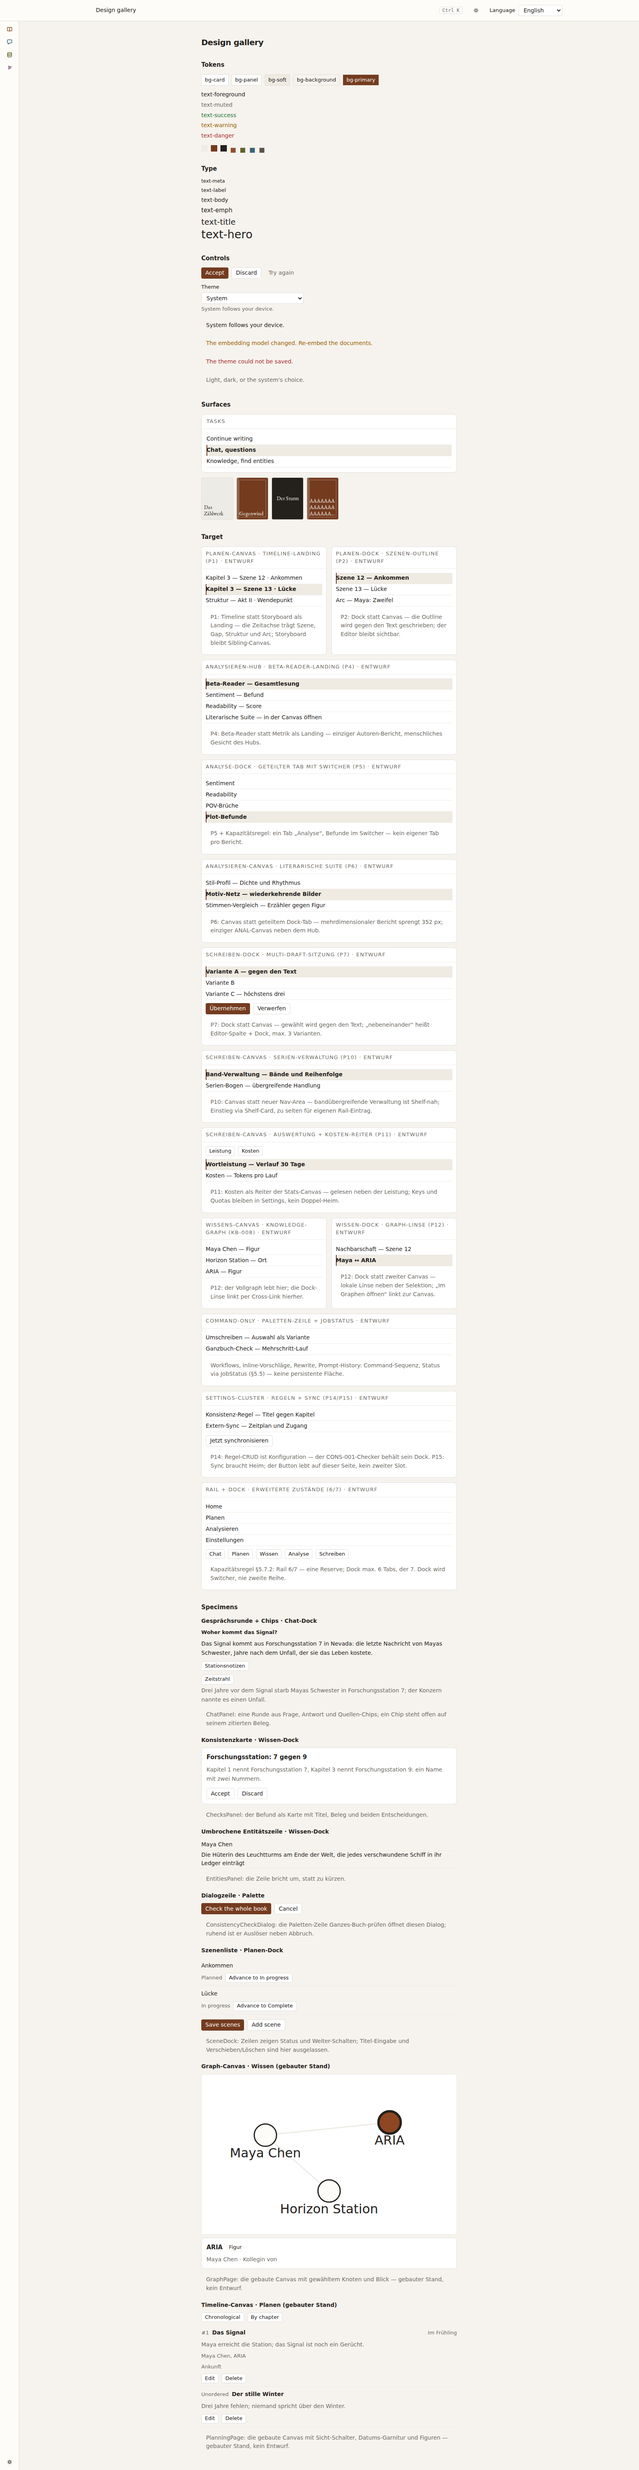
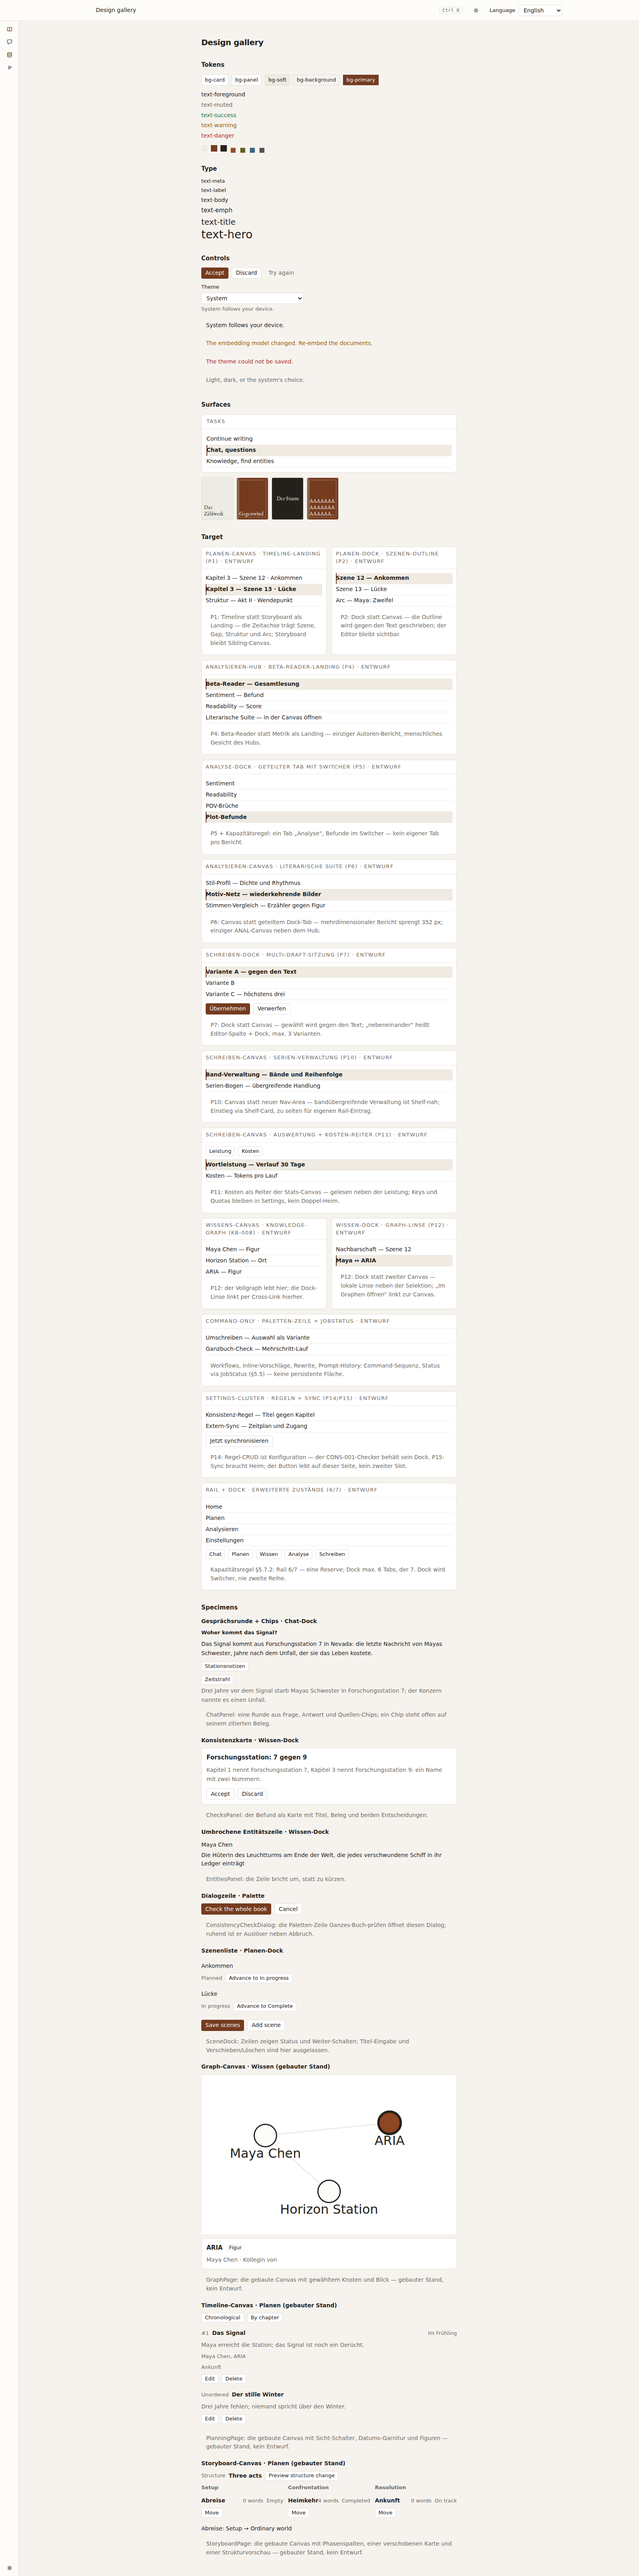
docs(screenshots): the storyboard canvas pinned in both themes
User-visible: The design gallery pins the built storyboard canvas beside its Target draft, and the screenshots show the storyboard board in light and dark themes.
Assisted-by: OpenCode (muse-spark-1.3-contributor)

diff --git a/app/capabilities/settings/web/DesignGallery.tsx b/app/capabilities/settings/web/DesignGallery.tsx
@@ -857,6 +857,139 @@ export function DesignGallery() {
             </Notice>
           </div>
         </div>
+        <div className="mt-3">
+          <h3 className="text-body font-semibold">
+            Storyboard-Canvas · Planen (gebauter Stand)
+          </h3>
+          {/* The canvas as StoryboardPage renders it, pinned small: the
+              structure with its switch trigger, then one column per stage —
+              each card with its title, its size and its sync badge beside
+              the one move it offers — and one remap row naming a chapter's
+              before and after. The moved card stands in its new column:
+              Ankunft belongs to the first stage and was moved to the last.
+              Positions are fixed by hand, never computed, so no layout
+              logic is copied here. Inert: the switch never switches, the
+              move is a plain button — no menu opens, no dialog opens here.
+              The Target draft above keeps its ENTWURF stamp as the fork
+              record; this block never wears it — gebauter Stand, not a
+              draft. */}
+          <section aria-label={t("storyboard.heading")} className="mt-2">
+            <div className="flex flex-wrap items-center gap-2">
+              <span className="text-label text-muted">{t("storyboard.structure")}</span>
+              <span className="font-semibold text-body">{t("storyboard.structure.three-act")}</span>
+              <Button variant="secondary" size="sm">
+                {t("storyboard.previewChange")}
+              </Button>
+            </div>
+            <div className="mt-2 grid gap-3 sm:grid-cols-3">
+              <div>
+                <h4 className="text-label font-semibold text-muted">
+                  {t("storyboard.stage.setup")}
+                </h4>
+                <ul className="mt-1 flex flex-col gap-2">
+                  <li>
+                    <Row
+                      as="div"
+                      role="group"
+                      aria-label="Abreise"
+                      flush
+                      className="h-auto flex-col items-stretch gap-1 py-2"
+                    >
+                      <div className="flex flex-wrap items-baseline gap-x-2">
+                        <span className="min-w-0 flex-1 text-body font-semibold">Abreise</span>
+                        <span className="shrink-0 text-label text-muted">
+                          {t("storyboard.words", { count: 0 })}
+                        </span>
+                        <span className="shrink-0 text-label text-muted">
+                          {t("storyboard.sync.empty")}
+                        </span>
+                      </div>
+                      <div className="flex flex-wrap items-center gap-2">
+                        <Button variant="secondary" size="sm">
+                          {t("storyboard.move")}
+                        </Button>
+                      </div>
+                    </Row>
+                  </li>
+                </ul>
+              </div>
+              <div>
+                <h4 className="text-label font-semibold text-muted">
+                  {t("storyboard.stage.confrontation")}
+                </h4>
+                <ul className="mt-1 flex flex-col gap-2">
+                  <li>
+                    <Row
+                      as="div"
+                      role="group"
+                      aria-label="Heimkehr"
+                      flush
+                      className="h-auto flex-col items-stretch gap-1 py-2"
+                    >
+                      <div className="flex flex-wrap items-baseline gap-x-2">
+                        <span className="min-w-0 flex-1 text-body font-semibold">Heimkehr</span>
+                        <span className="shrink-0 text-label text-muted">
+                          {t("storyboard.words", { count: 4 })}
+                        </span>
+                        <span className="shrink-0 text-label text-muted">
+                          {t("storyboard.sync.completed")}
+                        </span>
+                      </div>
+                      <div className="flex flex-wrap items-center gap-2">
+                        <Button variant="secondary" size="sm">
+                          {t("storyboard.move")}
+                        </Button>
+                      </div>
+                    </Row>
+                  </li>
+                </ul>
+              </div>
+              <div>
+                <h4 className="text-label font-semibold text-muted">
+                  {t("storyboard.stage.resolution")}
+                </h4>
+                <ul className="mt-1 flex flex-col gap-2">
+                  <li>
+                    <Row
+                      as="div"
+                      role="group"
+                      aria-label="Ankunft"
+                      flush
+                      className="h-auto flex-col items-stretch gap-1 py-2"
+                    >
+                      <div className="flex flex-wrap items-baseline gap-x-2">
+                        <span className="min-w-0 flex-1 text-body font-semibold">Ankunft</span>
+                        <span className="shrink-0 text-label text-muted">
+                          {t("storyboard.words", { count: 0 })}
+                        </span>
+                        <span className="shrink-0 text-label text-muted">
+                          {t("storyboard.sync.on_track")}
+                        </span>
+                      </div>
+                      <div className="flex flex-wrap items-center gap-2">
+                        <Button variant="secondary" size="sm">
+                          {t("storyboard.move")}
+                        </Button>
+                      </div>
+                    </Row>
+                  </li>
+                </ul>
+              </div>
+            </div>
+            <ul className="mt-2 flex flex-col gap-1">
+              <li className="text-body">
+                Abreise: {t("storyboard.stage.setup")} → {t("storyboard.stage.ordinary-world")}
+              </li>
+            </ul>
+          </section>
+          <div className="mt-2">
+            <Notice tone="quiet">
+              StoryboardPage: die gebaute Canvas mit Phasenspalten, einer
+              verschobenen Karte und einer Strukturvorschau — gebauter Stand,
+              kein Entwurf.
+            </Notice>
+          </div>
+        </div>
       </section>
     </div>
   );

diff --git a/app/capabilities/settings/web/DesignGallery.test.tsx b/app/capabilities/settings/web/DesignGallery.test.tsx
@@ -118,6 +118,25 @@ describe("DesignGallery", () => {
     expect(screen.getAllByRole("button", { name: "Edit" })).toHaveLength(2);
   });
 
+  it("pins the built storyboard-canvas specimen beside the Target draft", () => {
+    cleanup();
+    render(<DesignGallery />);
+    // The specimen's own heading names the built state — the Target draft
+    // above keeps the ENTWURF stamp as the fork record, the specimen never
+    // wears it.
+    const heading = screen.getByRole("heading", { name: /Storyboard-Canvas/ });
+    expect(heading.textContent).toMatch(/gebaut/);
+    const block = heading.parentElement as HTMLElement;
+    expect(block.textContent).not.toMatch(/ENTWURF/);
+    // Stage columns miniaturized: the moved card stands in its new column,
+    // with its size and sync badge beside the move it offers.
+    expect(screen.getByRole("group", { name: "Ankunft" })).toBeTruthy();
+    expect(block.textContent).toMatch(/words/);
+    expect(screen.getByRole("button", { name: "Preview structure change" })).toBeTruthy();
+    // One remap row: the chapter's before and after in one line.
+    expect(block.textContent).toMatch(/→/);
+  });
+
   it("clamps a 120-character cover title", () => {
     const { container } = render(<DesignGallery />);
     const tile = container.querySelector('[data-cover-tone][data-long-title]');

diff --git a/scripts/screenshots.py b/scripts/screenshots.py
@@ -23,6 +23,7 @@ import sys
 import time
 from pathlib import Path
 from typing import TYPE_CHECKING
+from uuid import uuid4
 
 import httpx
 from playwright.sync_api import FloatRect, expect, sync_playwright
@@ -102,6 +103,8 @@ SHOTS = (
     "11-graph-dark.png",
     "12-timeline.png",
     "13-timeline-dark.png",
+    "14-storyboard.png",
+    "15-storyboard-dark.png",
 )
 
 
@@ -300,6 +303,39 @@ def _seed_timeline(api: httpx.Client) -> str:
     for payload in events:
         created = api.post(f"/api/planning/novels/{novel_id}/timeline-events", json=payload)
         created.raise_for_status()
+    return novel_id
+
+
+def _seed_storyboard(api: httpx.Client) -> str:
+    """A novel with chapters wearing three different sync badges, through the API.
+
+    The scenes enter the world the way a writer would place them — through
+    the real save — and the prose rides the real chapter update, so the
+    word count reads above zero. Returns the novel's id, the storyboard
+    canvas's ``?novel=`` parameter. Mirrors the storyboard E2E's seed.
+    """
+    novel = api.post("/api/writing/novels", json={"title": "Die aufgestellte Bucht"})
+    novel.raise_for_status()
+    novel_id = str(novel.json()["id"])
+    chapter_ids: list[str] = []
+    for title in ("Ankunft", "Abreise", "Heimkehr"):
+        chapter = api.post(f"/api/writing/novels/{novel_id}/chapters", json={"title": title})
+        chapter.raise_for_status()
+        chapter_ids.append(str(chapter.json()["id"]))
+    ankunft, _, heimkehr = chapter_ids
+    for chapter_id, scenes in (
+        (ankunft, [{"id": str(uuid4()), "title": "Sturm", "status": "planned"}]),
+        (heimkehr, [{"id": str(uuid4()), "title": "Rückblick", "status": "complete"}]),
+    ):
+        saved = api.put(
+            f"/api/planning/novels/{novel_id}/chapters/{chapter_id}/scenes",
+            json={"scenes": scenes},
+        )
+        saved.raise_for_status()
+    updated = api.put(
+        f"/api/writing/chapters/{heimkehr}", json={"body": "Erste Worte im Manuskript."}
+    )
+    updated.raise_for_status()
     return novel_id
 
 
@@ -513,6 +549,27 @@ def _capture(
     expect(page.get_by_role("group", name="Anfang")).to_be_visible()
     expect(page.get_by_text("Im Frühling")).to_be_visible()
     shot(SHOTS[12])
+
+    # 14. The storyboard canvas in the default light: the novel's chapters
+    #     as cards in the columns of its structure — each card with its
+    #     size and its sync badge — the canvas owns the page, shot at the
+    #     shared viewport.
+    api.patch("/api/settings/theme", json={"theme": None})
+    storyboard_novel = _seed_storyboard(api)
+    page.goto(f"{WEB}/planning/storyboard?novel={storyboard_novel}")
+    expect(page.get_by_role("group", name="Ankunft")).to_be_visible()
+    expect(page.get_by_text("Resolution")).to_be_visible()
+    expect(page.get_by_text("4 words")).to_be_visible()
+    shot(SHOTS[13])
+
+    # 15. The same canvas in the reader's chosen dark, proven against a
+    #     light OS — the columns, the cards and the badges stay readable.
+    api.patch("/api/settings/theme", json={"theme": "dark"})
+    page.goto(f"{WEB}/planning/storyboard?novel={storyboard_novel}")
+    expect(page.locator("html")).to_have_attribute("data-theme", "dark")
+    expect(page.get_by_role("group", name="Ankunft")).to_be_visible()
+    expect(page.get_by_text("Resolution")).to_be_visible()
+    shot(SHOTS[14])
 
     api.patch("/api/settings/theme", json={"theme": None})
     return written
